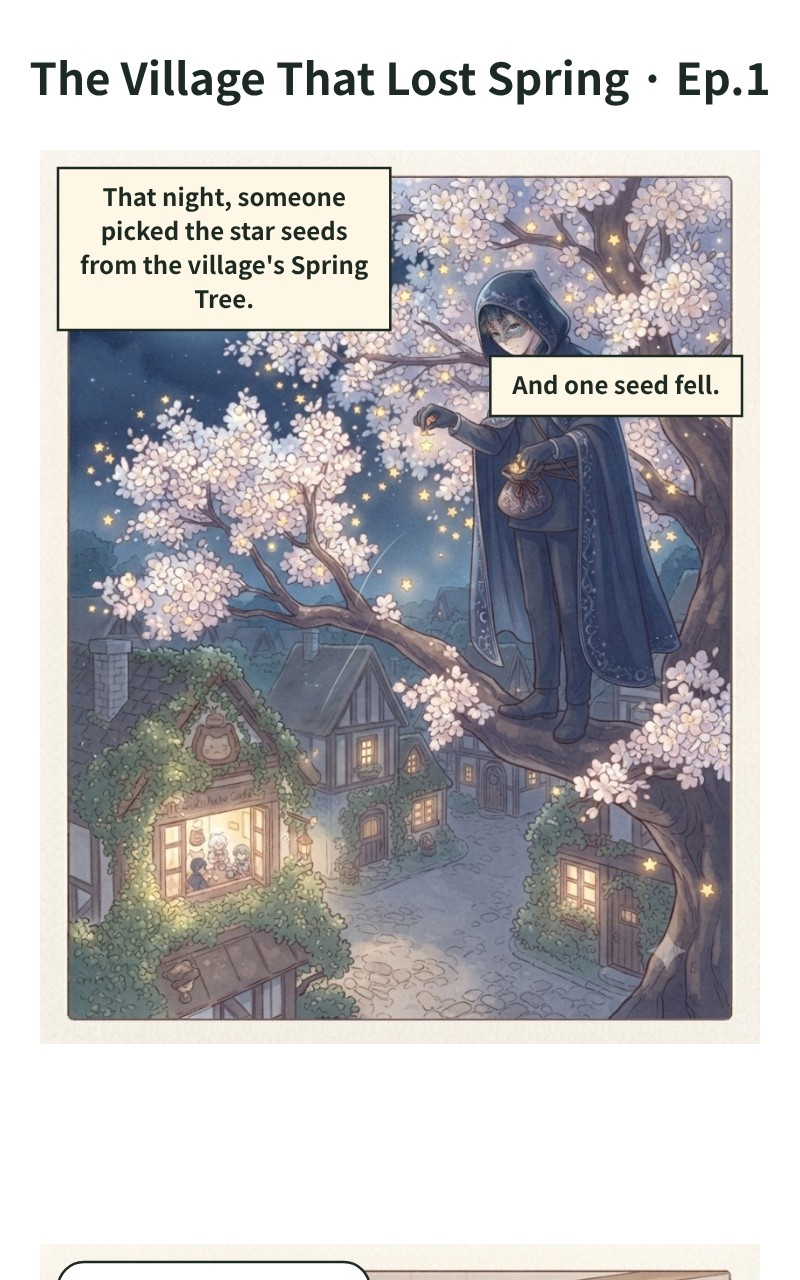
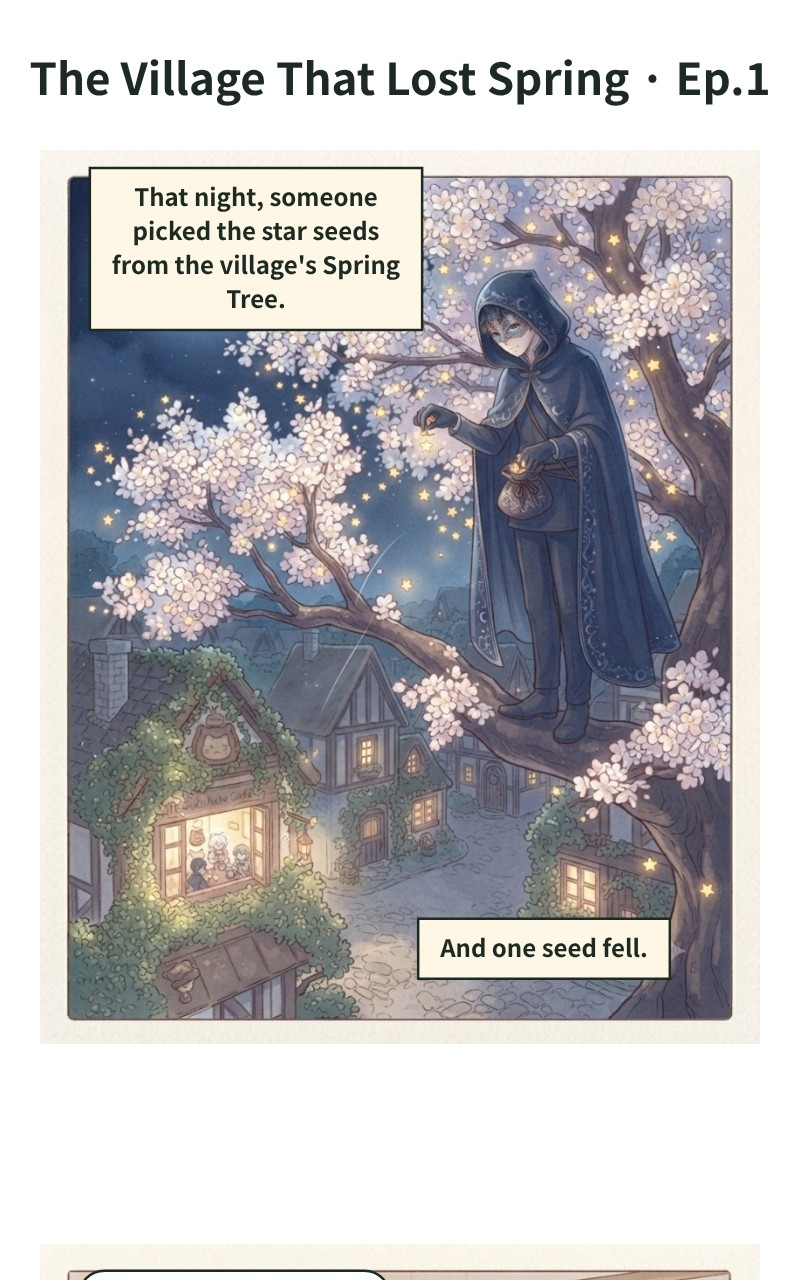
봄을 잃은 마을 1화: 말풍선 꼬리를 말하는 캐릭터에게 맞춤 (한국어·영어)
Claude-Session: https://claude.ai/code/session_01D8ERGz5r4FPkuXoKDYhqRw

diff --git a/web/ddalkkaktoon/make.html b/web/ddalkkaktoon/make.html
@@ -137,9 +137,16 @@ async function compose(o,imgs){const F=window.DDK_FORMULA;const W=F.scroll.width
  ctx.fillStyle="#1D2A23";ctx.font="44px 'Gowun Dodum'";ctx.textAlign="center";ctx.fillText(o.title||"딸깍툰",W/2,95);
  o.panels.forEach((p,i)=>{const b=blocks[i],x=(W-b.w)/2,im=ims[i];if(im)ctx.drawImage(im,x,b.y,b.w,b.h);else{ctx.fillStyle="#EEF3EF";ctx.fillRect(x,b.y,b.w,b.h);ctx.fillStyle="#8A9A90";ctx.font="22px 'Noto Sans KR'";ctx.fillText("(맛보기는 1컷만 그려요)",W/2,b.y+b.h/2)}
   let by=b.y+18;(p.lines||[]).slice(0,3).forEach((ln,j)=>{ctx.font="24px 'Noto Sans KR'";const narr=/나레이션|narration/i.test(ln.who||"");const ls=wrap(ctx,ln.text||"",300);const bw=Math.max(...ls.map(s=>ctx.measureText(s).width))+44,bh=ls.length*34+26;
-   const left=j%2===0;const bx=left?x+18:x+b.w-bw-18;ctx.fillStyle=narr?"#FFF7E6":"#fff";ctx.strokeStyle="#1D2A23";ctx.lineWidth=2.5;ctx.beginPath();
-   if(narr){ctx.rect(bx,by,bw,bh)}else{const r=Math.min(26,bh/2);ctx.moveTo(bx+r,by);ctx.arcTo(bx+bw,by,bx+bw,by+bh,r);ctx.arcTo(bx+bw,by+bh,bx,by+bh,r);ctx.lineTo(bx+(left?60:bw-36),by+bh);ctx.lineTo(bx+(left?44:bw-56),by+bh+18);ctx.lineTo(bx+(left?36:bw-60),by+bh);ctx.arcTo(bx,by+bh,bx,by,r);ctx.arcTo(bx,by,bx+bw,by,r)}
-   ctx.closePath();ctx.fill();ctx.stroke();ctx.fillStyle="#1D2A23";ctx.textAlign="center";ls.forEach((s,k)=>ctx.fillText(s,bx+bw/2,by+38+k*34));by+=bh+26})});
+   const left=ln.side?ln.side==="l":j%2===0;let bx=left?x+18:x+b.w-bw-18,byy=by;
+   if(ln.at){bx=x+ln.at[0]*b.w-bw/2;byy=b.y+ln.at[1]*b.h}bx=Math.max(x+14,Math.min(x+b.w-bw-14,bx));byy=Math.max(b.y+12,Math.min(b.y+b.h-bh-12,byy));
+   ctx.fillStyle=narr?"#FFF7E6":"#fff";ctx.strokeStyle="#1D2A23";ctx.lineWidth=2.5;
+   const r=Math.min(26,bh/2);const rr=()=>{ctx.beginPath();if(narr){ctx.rect(bx,byy,bw,bh)}else{ctx.moveTo(bx+r,byy);ctx.arcTo(bx+bw,byy,bx+bw,byy+bh,r);ctx.arcTo(bx+bw,byy+bh,bx,byy+bh,r);ctx.arcTo(bx,byy+bh,bx,byy,r);ctx.arcTo(bx,byy,bx+bw,byy,r)}ctx.closePath()};
+   let tail=null;if(!narr){let T;if(ln.to){T=[x+ln.to[0]*b.w,b.y+ln.to[1]*b.h]}else{T=[bx+(left?50:bw-50),byy+bh+40]}
+    const below=T[1]>byy+bh/2;const ey=below?byy+bh:byy;const cx=Math.max(bx+r+16,Math.min(bx+bw-r-16,T[0]));
+    let dx=T[0]-cx,dy=T[1]-ey;const dl=Math.hypot(dx,dy)||1;const L=Math.min(48,Math.max(20,dl-24));const tip=[cx+dx/dl*L,ey+dy/dl*L];tail={cx,ey,tip}}
+   rr();ctx.fill();ctx.stroke();
+   if(tail){const {cx,ey,tip}=tail;ctx.beginPath();ctx.moveTo(cx-13,ey);ctx.lineTo(tip[0],tip[1]);ctx.lineTo(cx+13,ey);ctx.fillStyle="#fff";ctx.fill();ctx.stroke();ctx.beginPath();ctx.moveTo(cx-11,ey);ctx.lineTo(cx+11,ey);ctx.strokeStyle="#fff";ctx.lineWidth=5;ctx.stroke();ctx.strokeStyle="#1D2A23";ctx.lineWidth=2.5}
+   ctx.fillStyle="#1D2A23";ctx.textAlign="center";ls.forEach((s,k)=>ctx.fillText(s,bx+bw/2,byy+38+k*34));by=Math.max(by,byy)+bh+26})});
  ctx.fillStyle="#9AA8A0";ctx.font="18px 'Noto Sans KR'";ctx.textAlign="center";ctx.fillText("딸깍툰 · AI로 그린 웹툰",W/2,H-36);return c}
 function slices(c){const F=window.DDK_FORMULA,out=[];for(let y=0;y<c.height;y+=F.scroll.sliceMax){const h=Math.min(F.scroll.sliceMax,c.height-y);const s=document.createElement("canvas");s.width=c.width;s.height=h;s.getContext("2d").drawImage(c,0,y,c.width,h,0,0,c.width,h);out.push(s.toDataURL("image/jpeg",.9))}return out}
 
